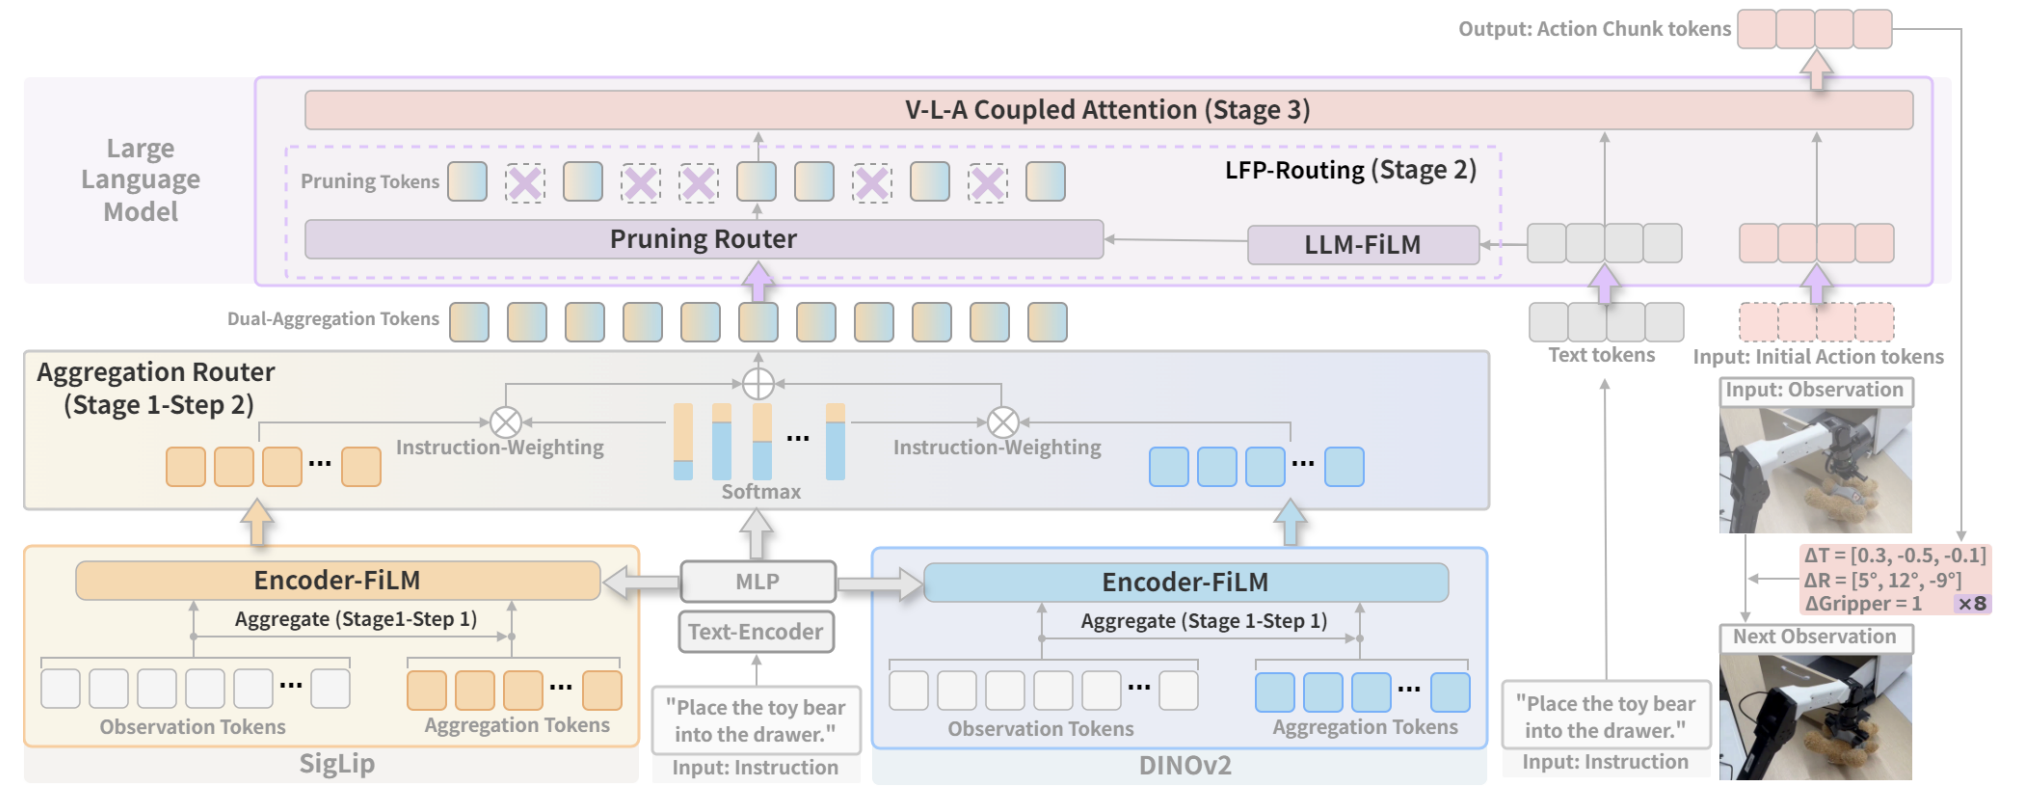
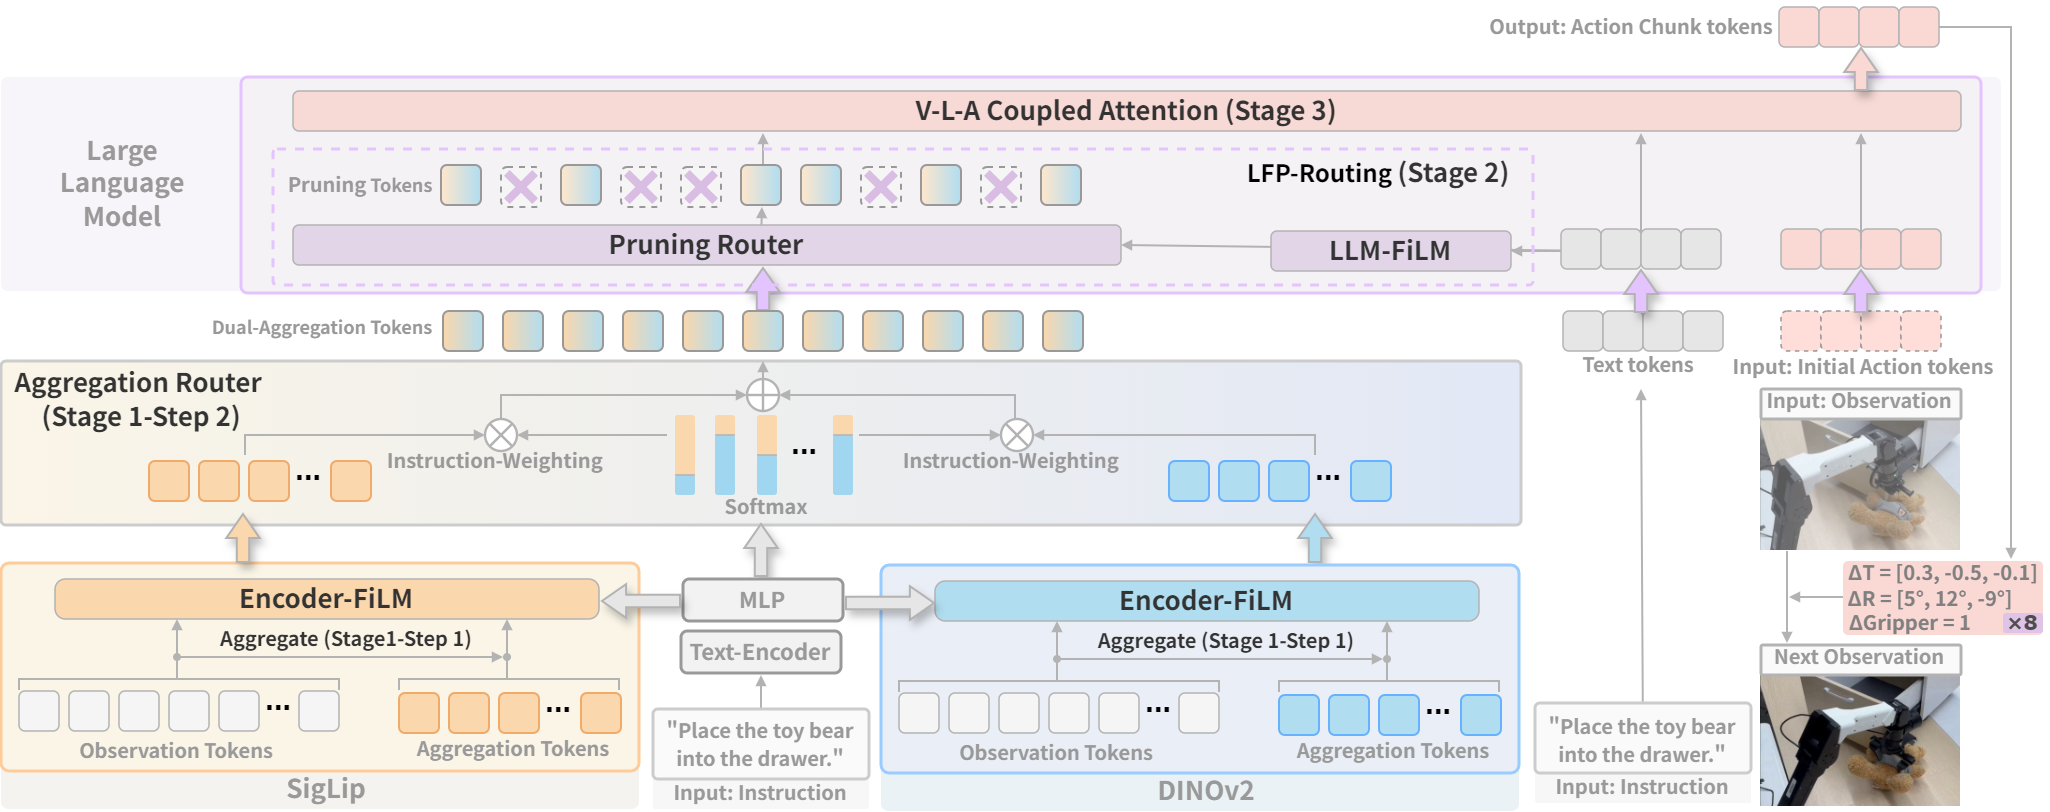
add projects photos

Changed region(s): [[0.0, 0.0, 0.997, 0.995], [0.592, 0.1555, 0.7478, 0.2488], [0.7789, 0.1555, 0.8101, 0.1866]]

diff --git a/projects/index.html b/projects/index.html
@@ -126,6 +126,13 @@
                flex-shrink: 0;
              ">
 
+        <img src="./projects_photos/semanticvla.png"
+             style="
+               height: 230px;         /* ✅ 缩小一点 */
+               object-fit: contain;
+               flex-shrink: 0;
+             ">
+
       </div>
     </div>
 
